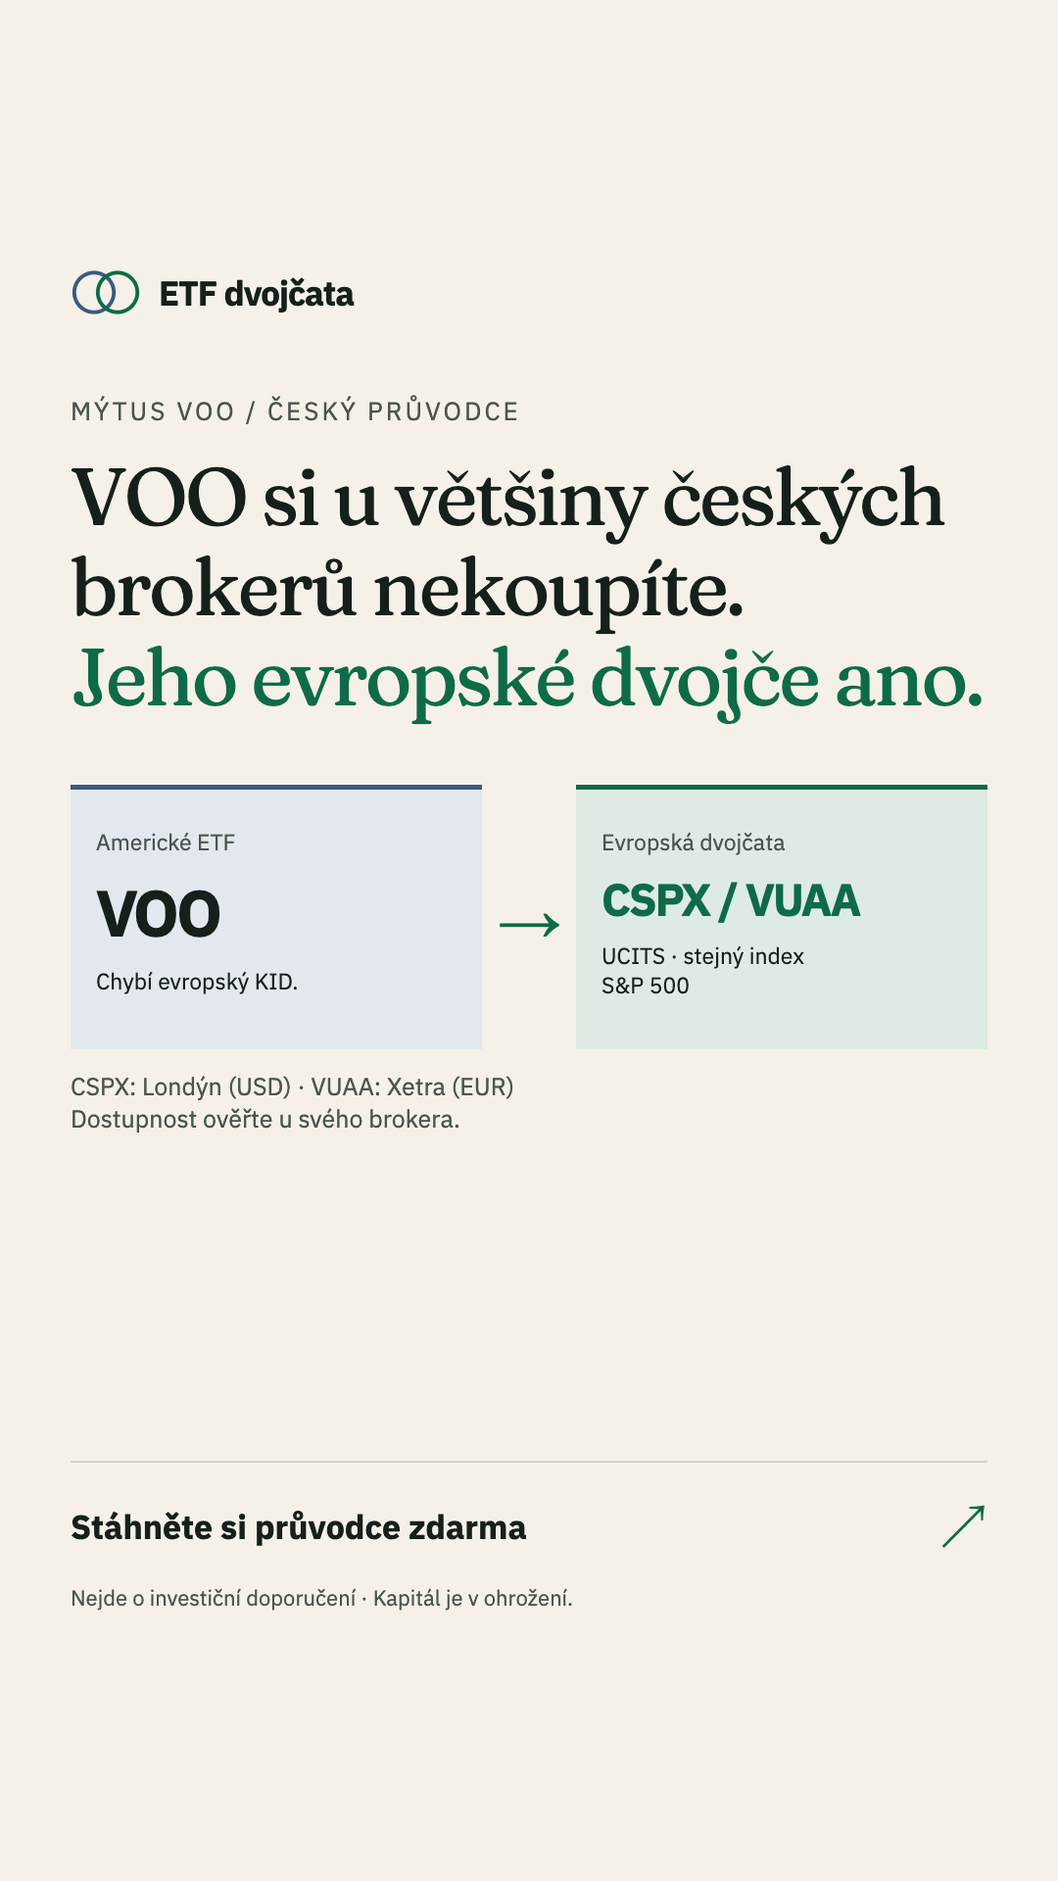
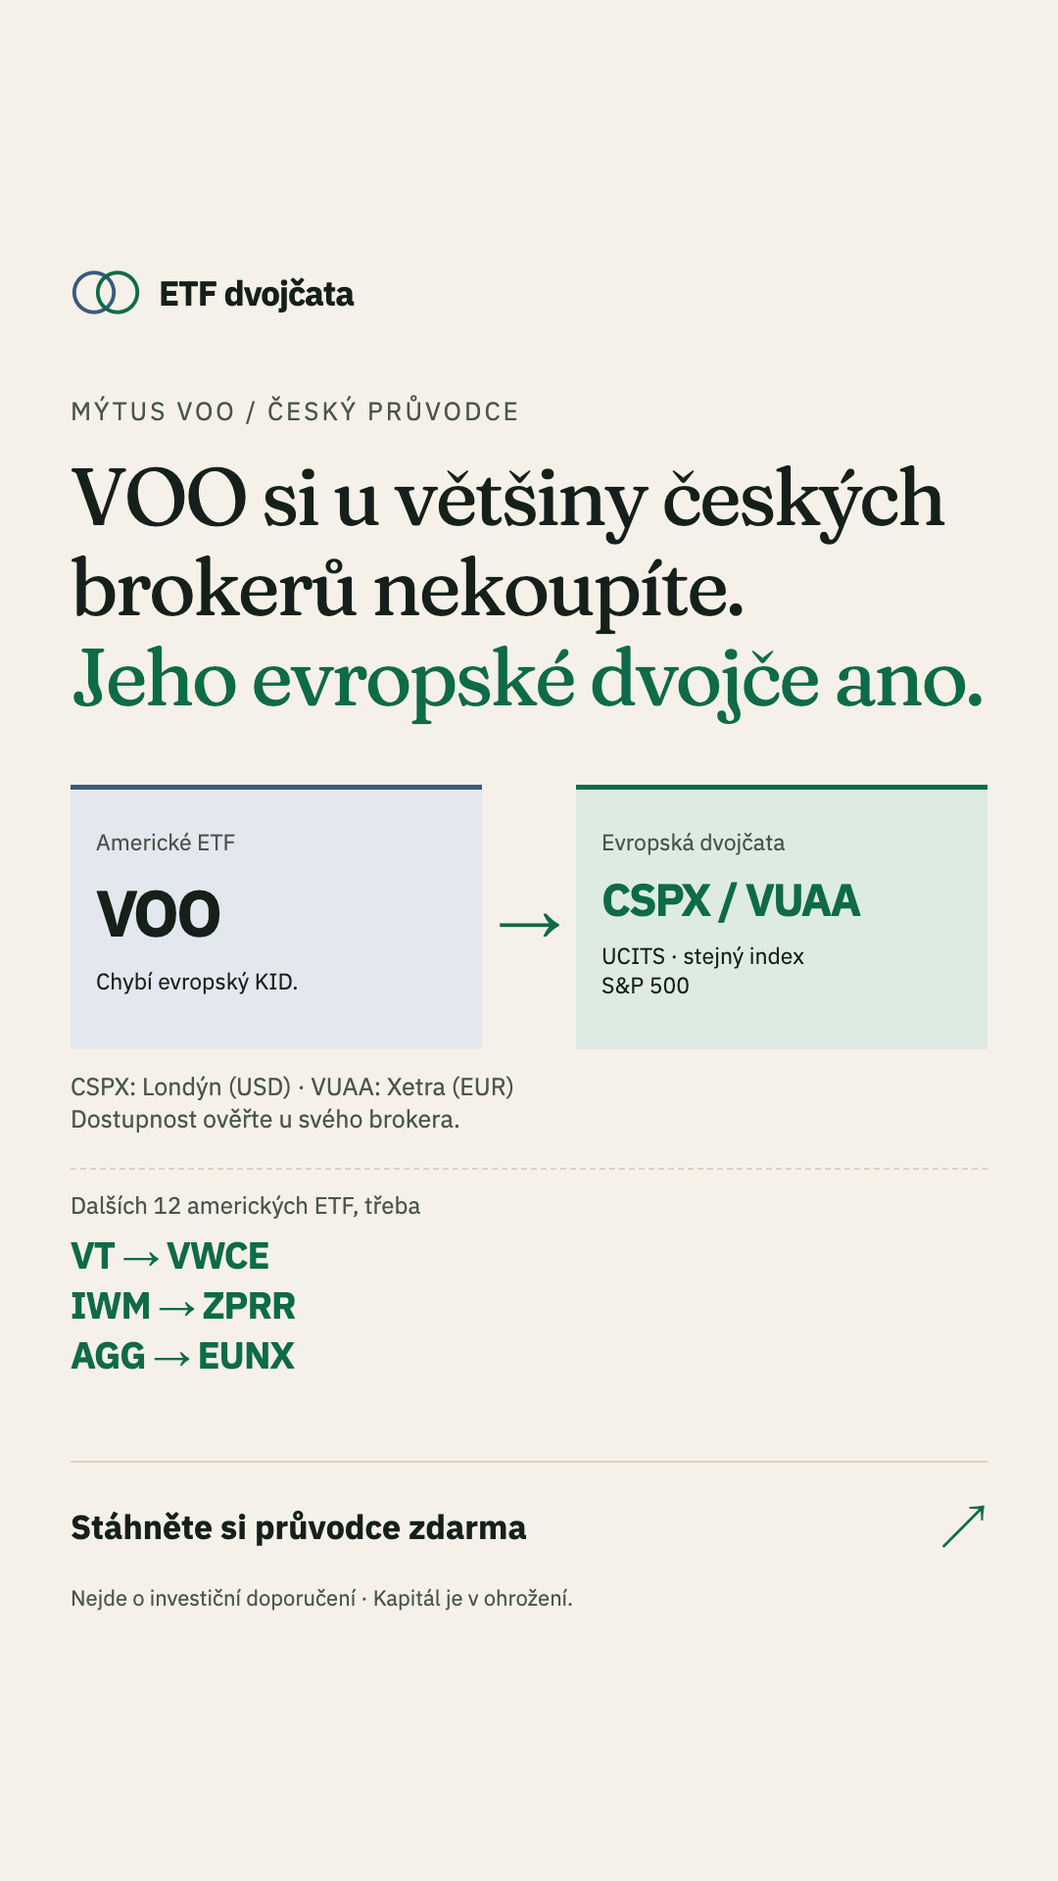
Show both ends of the fee range in ad B and fill the empty space in ad A

Changed region(s): [[0.1528, 0.625, 0.3056, 0.75], [0.0611, 0.625, 0.1528, 0.75], [0.3361, 0.625, 0.3972, 0.6562]]

diff --git a/ads/creative.css b/ads/creative.css
@@ -49,3 +49,4 @@
 }
 :root{--paper:#F5F1E8;--ink:#16201B;--muted:var(--ink-muted,#4A554F);--rules:var(--rule,#D9D2C3);--us:#3A5A80;--eu:#0E6B47;--accent:var(--signal-ink,#B83A16);--highlight:var(--marker,#F2E36B)}
 *{box-sizing:border-box}html,body{margin:0;width:1080px;background:var(--paper);color:var(--ink)}body{font-family:var(--font-body,"IBM Plex Sans",Arial,sans-serif)}.canvas{width:1080px;height:1350px;padding:68px 72px;overflow:hidden;position:relative}.brand{display:flex;align-items:center;gap:17px;font-size:35px;font-weight:700;letter-spacing:-1px}.brand svg{width:73px;height:47px}.eyebrow{margin:60px 0 25px;font-size:26px;letter-spacing:3px;text-transform:uppercase;color:var(--muted)}h1{font-family:var(--font-display,"Fraunces Variable",Georgia,serif);font-weight:400;font-size:73px;line-height:1.08;letter-spacing:-2.8px;margin:0}.em{color:var(--eu)}.twins{display:grid;grid-template-columns:1fr 64px 1fr;align-items:center;gap:16px;margin-top:48px}.card{height:238px;padding:30px 26px;border-top:5px solid var(--us);background:var(--us-tint,#E3E8EE)}.card.eu{border-color:var(--eu);background:var(--eu-tint,#DDEBE3)}.card small{display:block;font-size:23px;color:var(--muted);margin-bottom:14px}.ticker{font-size:66px;letter-spacing:-3px;font-weight:700}.eu .ticker{font-size:46px;letter-spacing:-2px;white-space:nowrap;color:var(--eu)}.card p{font-size:23px;line-height:1.3;margin:13px 0 0}.arrow{font-size:65px;color:var(--eu)}.caption{font-size:25px;line-height:1.3;color:var(--muted);margin:22px 0 0}.bottom{position:absolute;left:72px;right:72px;bottom:65px}.cta{border-top:2px solid var(--rules);padding-top:29px;display:flex;justify-content:space-between;align-items:center;font-size:34px;font-weight:700}.cta span:last-child{color:var(--eu);font-size:48px}.disclaimer{font-size:22px;color:var(--muted);margin:22px 0 0}.story .canvas{height:1920px;padding-top:275px;padding-bottom:275px}.story .eyebrow{margin-top:80px}.story h1{font-size:82px;line-height:1.12}.story .twins{margin-top:65px}.story .card{height:270px;padding-top:38px}.story .bottom{bottom:275px}.b h1{font-size:70px}.b .number{display:block;font-family:var(--font-body,"IBM Plex Sans",Arial,sans-serif);font-weight:700;font-size:106px;letter-spacing:-5px;white-space:nowrap;margin:18px 0 12px;color:var(--accent)}.b .years{display:block;font-size:62px;letter-spacing:-2px}.fx-strip{margin-top:44px;display:grid;grid-template-columns:1fr 100px 1fr;gap:18px;align-items:center;background:var(--highlight);padding:28px 32px}.fx-strip div{font-size:32px;font-weight:700}.fx-strip small{font-size:23px;font-weight:400;display:block;margin-bottom:8px}.fx-strip .middle{font-size:42px;text-align:center;font-weight:400}.fx-note{font-size:28px;line-height:1.35;margin:24px 0 0;color:var(--muted)}.b.story h1{font-size:80px}.b.story .number{font-size:110px;margin-top:30px}.b.story .fx-strip{margin-top:55px}.b.story .fx-note{font-size:31px}
+.more{margin-top:46px;border-top:2px dashed var(--rules);padding-top:26px}.more small{display:block;font-size:24px;color:var(--muted);margin-bottom:10px}.more p{margin:6px 0 0;font-size:40px;font-weight:700;letter-spacing:-1px;color:var(--eu)}.story .more{margin-top:34px;padding-top:20px}.story .more p{font-size:38px;margin-top:2px}

diff --git a/ads/a-story.html b/ads/a-story.html
@@ -1,2 +1,2 @@
 <!doctype html>
-<html lang="cs"><head><meta charset="utf-8"><meta name="viewport" content="width=1080"><title>ETF dvojčata — A story</title><link rel="stylesheet" href="creative.css"></head><body class="a story"><main class="canvas"><div class="brand"><svg viewBox="0 0 76 48" xmlns="http://www.w3.org/2000/svg" aria-hidden="true"><circle cx="25" cy="24" r="21" fill="none" stroke="#3A5A80" stroke-width="4"/><circle cx="50" cy="24" r="21" fill="none" stroke="#0E6B47" stroke-width="4"/></svg>ETF dvojčata</div><p class="eyebrow">Mýtus VOO / český průvodce</p><h1>VOO si u&nbsp;většiny českých brokerů nekoupíte.<br><span class="em">Jeho evropské dvojče ano.</span></h1><div class="twins"><div class="card"><small>Americké ETF</small><div class="ticker">VOO</div><p>Chybí evropský KID.</p></div><div class="arrow">→</div><div class="card eu"><small>Evropská dvojčata</small><div class="ticker">CSPX / VUAA</div><p>UCITS · stejný index<br>S&amp;P 500</p></div></div><p class="caption">CSPX: Londýn (USD) · VUAA: Xetra (EUR)<br>Dostupnost ověřte u&nbsp;svého brokera.</p><footer class="bottom"><div class="cta"><span>Stáhněte si průvodce zdarma</span><span>↗</span></div><p class="disclaimer">Nejde o investiční doporučení · Kapitál je v ohrožení.</p></footer></main></body></html>
+<html lang="cs"><head><meta charset="utf-8"><meta name="viewport" content="width=1080"><title>ETF dvojčata — A story</title><link rel="stylesheet" href="creative.css"></head><body class="a story"><main class="canvas"><div class="brand"><svg viewBox="0 0 76 48" xmlns="http://www.w3.org/2000/svg" aria-hidden="true"><circle cx="25" cy="24" r="21" fill="none" stroke="#3A5A80" stroke-width="4"/><circle cx="50" cy="24" r="21" fill="none" stroke="#0E6B47" stroke-width="4"/></svg>ETF dvojčata</div><p class="eyebrow">Mýtus VOO / český průvodce</p><h1>VOO si u&nbsp;většiny českých brokerů nekoupíte.<br><span class="em">Jeho evropské dvojče ano.</span></h1><div class="twins"><div class="card"><small>Americké ETF</small><div class="ticker">VOO</div><p>Chybí evropský KID.</p></div><div class="arrow">→</div><div class="card eu"><small>Evropská dvojčata</small><div class="ticker">CSPX / VUAA</div><p>UCITS · stejný index<br>S&amp;P 500</p></div></div><p class="caption">CSPX: Londýn (USD) · VUAA: Xetra (EUR)<br>Dostupnost ověřte u&nbsp;svého brokera.</p><div class="more"><small>Dalších 12 amerických ETF, třeba</small><p>VT → VWCE</p><p>IWM → ZPRR</p><p>AGG → EUNX</p></div><footer class="bottom"><div class="cta"><span>Stáhněte si průvodce zdarma</span><span>↗</span></div><p class="disclaimer">Nejde o investiční doporučení · Kapitál je v ohrožení.</p></footer></main></body></html>

diff --git a/ads/a-feed.html b/ads/a-feed.html
@@ -1,2 +1,2 @@
 <!doctype html>
-<html lang="cs"><head><meta charset="utf-8"><meta name="viewport" content="width=1080"><title>ETF dvojčata — A feed</title><link rel="stylesheet" href="creative.css"></head><body class="a feed"><main class="canvas"><div class="brand"><svg viewBox="0 0 76 48" xmlns="http://www.w3.org/2000/svg" aria-hidden="true"><circle cx="25" cy="24" r="21" fill="none" stroke="#3A5A80" stroke-width="4"/><circle cx="50" cy="24" r="21" fill="none" stroke="#0E6B47" stroke-width="4"/></svg>ETF dvojčata</div><p class="eyebrow">Mýtus VOO / český průvodce</p><h1>VOO si u&nbsp;většiny českých brokerů nekoupíte.<br><span class="em">Jeho evropské dvojče ano.</span></h1><div class="twins"><div class="card"><small>Americké ETF</small><div class="ticker">VOO</div><p>Chybí evropský KID.</p></div><div class="arrow">→</div><div class="card eu"><small>Evropská dvojčata</small><div class="ticker">CSPX / VUAA</div><p>UCITS · stejný index<br>S&amp;P 500</p></div></div><p class="caption">CSPX: Londýn (USD) · VUAA: Xetra (EUR)<br>Dostupnost ověřte u&nbsp;svého brokera.</p><footer class="bottom"><div class="cta"><span>Stáhněte si průvodce zdarma</span><span>↗</span></div><p class="disclaimer">Nejde o investiční doporučení · Kapitál je v ohrožení.</p></footer></main></body></html>
+<html lang="cs"><head><meta charset="utf-8"><meta name="viewport" content="width=1080"><title>ETF dvojčata — A feed</title><link rel="stylesheet" href="creative.css"></head><body class="a feed"><main class="canvas"><div class="brand"><svg viewBox="0 0 76 48" xmlns="http://www.w3.org/2000/svg" aria-hidden="true"><circle cx="25" cy="24" r="21" fill="none" stroke="#3A5A80" stroke-width="4"/><circle cx="50" cy="24" r="21" fill="none" stroke="#0E6B47" stroke-width="4"/></svg>ETF dvojčata</div><p class="eyebrow">Mýtus VOO / český průvodce</p><h1>VOO si u&nbsp;většiny českých brokerů nekoupíte.<br><span class="em">Jeho evropské dvojče ano.</span></h1><div class="twins"><div class="card"><small>Americké ETF</small><div class="ticker">VOO</div><p>Chybí evropský KID.</p></div><div class="arrow">→</div><div class="card eu"><small>Evropská dvojčata</small><div class="ticker">CSPX / VUAA</div><p>UCITS · stejný index<br>S&amp;P 500</p></div></div><p class="caption">CSPX: Londýn (USD) · VUAA: Xetra (EUR)<br>Dostupnost ověřte u&nbsp;svého brokera.</p><div class="more"><small>Dalších 12 amerických ETF, třeba</small><p>VT → VWCE</p><p>IWM → ZPRR</p><p>AGG → EUNX</p></div><footer class="bottom"><div class="cta"><span>Stáhněte si průvodce zdarma</span><span>↗</span></div><p class="disclaimer">Nejde o investiční doporučení · Kapitál je v ohrožení.</p></footer></main></body></html>

diff --git a/ads/b-story.html b/ads/b-story.html
@@ -1,2 +1,2 @@
 <!doctype html>
-<html lang="cs"><head><meta charset="utf-8"><meta name="viewport" content="width=1080"><title>ETF dvojčata — B story</title><link rel="stylesheet" href="creative.css"></head><body class="b story"><main class="canvas"><div class="brand"><svg viewBox="0 0 76 48" xmlns="http://www.w3.org/2000/svg" aria-hidden="true"><circle cx="25" cy="24" r="21" fill="none" stroke="#3A5A80" stroke-width="4"/><circle cx="50" cy="24" r="21" fill="none" stroke="#0E6B47" stroke-width="4"/></svg>ETF dvojčata</div><p class="eyebrow">Skryté poplatky / směna měn</p><h1>Stejný fond na&nbsp;S&amp;P&nbsp;500,<br>jiný broker:<br>rozdíl až <span class="number">{{N}} Kč</span><span class="years">za&nbsp;20 let.</span></h1><div class="fx-strip"><div><small>Při nákupu za&nbsp;koruny</small>CZK</div><div class="middle">→</div><div><small>Směna má svou cenu</small>EUR / USD</div></div><p class="fx-note">Nulová provize neznamená nulové náklady. Porovnejte i&nbsp;poplatek za&nbsp;směnu.</p><p class="caption">Modelový rozdíl nákladů. Záleží na&nbsp;vkladu,<br>brokerech a&nbsp;předpokladech kalkulačky.</p><footer class="bottom"><div class="cta"><span>Porovnejte poplatky v korunách</span><span>↗</span></div><p class="disclaimer">Nejde o investiční doporučení · Kapitál je v ohrožení.</p></footer></main></body></html>
+<html lang="cs"><head><meta charset="utf-8"><meta name="viewport" content="width=1080"><title>ETF dvojčata — B story</title><link rel="stylesheet" href="creative.css"></head><body class="b story"><main class="canvas"><div class="brand"><svg viewBox="0 0 76 48" xmlns="http://www.w3.org/2000/svg" aria-hidden="true"><circle cx="25" cy="24" r="21" fill="none" stroke="#3A5A80" stroke-width="4"/><circle cx="50" cy="24" r="21" fill="none" stroke="#0E6B47" stroke-width="4"/></svg>ETF dvojčata</div><p class="eyebrow">Poplatky v korunách / S&amp;P 500</p><h1>Stejný fond na&nbsp;S&amp;P&nbsp;500,<br>jiný broker:<br>rozdíl až <span class="number">{{N}} Kč</span><span class="years">za&nbsp;20 let.</span></h1><div class="fx-strip"><div><small>Nejlevnější cesta</small>{{LOW}} Kč</div><div class="middle">vs</div><div><small>Nejdražší cesta</small>{{HIGH}} Kč</div></div><p class="fx-note">Provize, směna měn i&nbsp;úschova. Spočítali jsme je u&nbsp;4 brokerů v&nbsp;korunách.</p><p class="caption">Model: 3&nbsp;000 Kč měsíčně, 20 let, 7&nbsp;% ročně.<br>Skutečné náklady závisí na&nbsp;vkladu a&nbsp;brokerovi.</p><footer class="bottom"><div class="cta"><span>Porovnejte poplatky v korunách</span><span>↗</span></div><p class="disclaimer">Nejde o investiční doporučení · Kapitál je v ohrožení.</p></footer></main></body></html>

diff --git a/ads/b-feed.html b/ads/b-feed.html
@@ -1,2 +1,2 @@
 <!doctype html>
-<html lang="cs"><head><meta charset="utf-8"><meta name="viewport" content="width=1080"><title>ETF dvojčata — B feed</title><link rel="stylesheet" href="creative.css"></head><body class="b feed"><main class="canvas"><div class="brand"><svg viewBox="0 0 76 48" xmlns="http://www.w3.org/2000/svg" aria-hidden="true"><circle cx="25" cy="24" r="21" fill="none" stroke="#3A5A80" stroke-width="4"/><circle cx="50" cy="24" r="21" fill="none" stroke="#0E6B47" stroke-width="4"/></svg>ETF dvojčata</div><p class="eyebrow">Skryté poplatky / směna měn</p><h1>Stejný fond na&nbsp;S&amp;P&nbsp;500,<br>jiný broker:<br>rozdíl až <span class="number">{{N}} Kč</span><span class="years">za&nbsp;20 let.</span></h1><div class="fx-strip"><div><small>Při nákupu za&nbsp;koruny</small>CZK</div><div class="middle">→</div><div><small>Směna má svou cenu</small>EUR / USD</div></div><p class="fx-note">Nulová provize neznamená nulové náklady. Porovnejte i&nbsp;poplatek za&nbsp;směnu.</p><p class="caption">Modelový rozdíl nákladů. Záleží na&nbsp;vkladu,<br>brokerech a&nbsp;předpokladech kalkulačky.</p><footer class="bottom"><div class="cta"><span>Porovnejte poplatky v korunách</span><span>↗</span></div><p class="disclaimer">Nejde o investiční doporučení · Kapitál je v ohrožení.</p></footer></main></body></html>
+<html lang="cs"><head><meta charset="utf-8"><meta name="viewport" content="width=1080"><title>ETF dvojčata — B feed</title><link rel="stylesheet" href="creative.css"></head><body class="b feed"><main class="canvas"><div class="brand"><svg viewBox="0 0 76 48" xmlns="http://www.w3.org/2000/svg" aria-hidden="true"><circle cx="25" cy="24" r="21" fill="none" stroke="#3A5A80" stroke-width="4"/><circle cx="50" cy="24" r="21" fill="none" stroke="#0E6B47" stroke-width="4"/></svg>ETF dvojčata</div><p class="eyebrow">Poplatky v korunách / S&amp;P 500</p><h1>Stejný fond na&nbsp;S&amp;P&nbsp;500,<br>jiný broker:<br>rozdíl až <span class="number">{{N}} Kč</span><span class="years">za&nbsp;20 let.</span></h1><div class="fx-strip"><div><small>Nejlevnější cesta</small>{{LOW}} Kč</div><div class="middle">vs</div><div><small>Nejdražší cesta</small>{{HIGH}} Kč</div></div><p class="fx-note">Provize, směna měn i&nbsp;úschova. Spočítali jsme je u&nbsp;4 brokerů v&nbsp;korunách.</p><p class="caption">Model: 3&nbsp;000 Kč měsíčně, 20 let, 7&nbsp;% ročně.<br>Skutečné náklady závisí na&nbsp;vkladu a&nbsp;brokerovi.</p><footer class="bottom"><div class="cta"><span>Porovnejte poplatky v korunách</span><span>↗</span></div><p class="disclaimer">Nejde o investiční doporučení · Kapitál je v ohrožení.</p></footer></main></body></html>

diff --git a/ads/README.md b/ads/README.md
@@ -6,15 +6,19 @@ Educational Czech ETF comparison, prepared 11 October 2026. Two promises, two ma
 
 `a-feed.html`, `a-story.html`, `b-feed.html`, `b-story.html` share `creative.css`. Feed is 1080 × 1350; story is 1080 × 1920. All story text fits between y=250 and y=1670. The background extends to every edge. Hooks are at least 70 px. The mark uses two overlapping circles. The creatives import the landing design tokens and load local Fraunces and IBM Plex Sans font files, including Czech glyphs. Georgia and system sans are fallbacks. The renderer resolves local font and token URLs for its temporary HTML.
 
-Run from the repository root:
+Run from the repository root with the three numbers the landing calculator shows for its default
+scenario (3 000 Kč a month, 20 years, 7 % a year, CSPX/SXR8 bought monthly):
 
 ```sh
-ads/build.sh 41300
+ads/build.sh 47700 15700 63400   # difference, cheapest route, most expensive route
 ```
 
-This example supplies a number; it is **not a verified calculator result**. The script renders all four files into `ads/out/`, formats whole crowns with non-breaking thousands separators (`41 300`), uses isolated temporary Chrome profiles, and removes its temporary files. Chrome must be installed at `/Applications/Google Chrome.app/Contents/MacOS/Google Chrome`; Python 3 is required. No package installation is needed. Template `{{N}}` placeholders remain untouched.
-
-The layout check used `ads/build.sh 0`. Only A's production PNGs remain in `out/`; B's dummy PNGs were removed after visual inspection. B is pending the landing calculator's confirmed value. Before rebuilding B, record the calculator settings (monthly contribution, years, selected brokers, FX rates, returns, commission and liquidation assumptions). Reproduce that same scenario on the first screen or directly reachable calculator. The value must describe a modeled cost difference, not an investment return or guaranteed saving. For a value wider than the available number line, adjust type size while keeping hook text at least 48 px and inspect both outputs again.
+These are the calculator's own outputs (`src/calc.ts`, checked by `src/calc.test.ts`): Trading 212
+15 700 Kč, Fio e-Broker on Xetra 63 400 Kč, difference 47 700 Kč. Most of the gap is Fio's €3.95
+commission per monthly purchase, not the currency conversion, so creative B talks about fees in
+general and shows both ends of the range instead of blaming FX. If fees or rates change, rerun the
+calculator tests first, then rebuild with the new numbers. The script renders all four files into
+`ads/out/` with isolated temporary Chrome profiles and cleans up after itself.
 
 ## A — Mýtus VOO
 
@@ -35,16 +39,16 @@ Final URL: `https://{DOMAIN}/?utm_source=meta&utm_medium=paid_social&utm_campaig
 
 | Field | Copy |
 |---|---|
-| Primary text | “Stejný fond na S&P 500, jiný broker: rozdíl až {{N}} Kč za 20 let. Porovnejte poplatky v korunách.” |
-| Headline | “Kolik stojí směna měn u brokera?” |
+| Primary text | “Stejný fond na S&P 500, jiný broker: rozdíl až 47 700 Kč za 20 let. Spočítejte si poplatky v korunách.” |
+| Headline | “Kolik vás stojí broker za 20 let?” |
 | Description | “Modelový výpočet a český průvodce ETF.” |
 | CTA button | “Zjistit více” |
-| Alternative primary 1 | “Nulová provize není nulový náklad. Za směnu měn se platí. Porovnejte ETF brokery v korunách.” |
-| Alternative primary 2 | “Rozdíl až {{N}} Kč za 20 let? Záleží i na brokerovi. Ověřte předpoklady v kalkulačce poplatků.” |
+| Alternative primary 1 | “Provize, směna měn, úschova. Přepočítali jsme poplatky 4 brokerů na koruny. Zdarma a bez registrace.” |
+| Alternative primary 2 | “15 700 Kč, nebo 63 400 Kč? Stejný fond, jiný broker. Zadejte svou částku do kalkulačky.” |
 
 Final URL: `https://{DOMAIN}/?utm_source=meta&utm_medium=paid_social&utm_campaign=etf_dvojcata_launch&utm_content=fx`
 
-**Promise → first screen:** `utm_content=fx` must repeat the same `{{N}}` amount, identify it as a modeled fee difference, show the 20-year scenario and offer the editable calculator plus the guide. Use the same fund and assumptions across brokers. “Až” must refer to an identified comparison among the listed brokers, not an unlimited claim. The ad number, headline and calculator must be checked together before launch. Do not publish either `{{N}}` or the layout-check value 0.
+**Promise → first screen:** `utm_content=fx` repeats the same 47 700 Kč amount, identify it as a modeled fee difference, show the 20-year scenario and offer the editable calculator plus the guide. Use the same fund and assumptions across brokers. “Až” must refer to an identified comparison among the listed brokers, not an unlimited claim. The ad number, headline and calculator must be checked together before launch. 
 
 All primary texts and alternatives are below 125 characters at template length; both headlines are below 40 characters. Recheck B's length after number substitution. Keep the full primary hook before “Zobrazit více”; actual truncation depends on placement.
 
@@ -79,6 +83,6 @@ Do not stop early merely because the five-day smoke test cannot reach the 30-lea
 - [ ] No “safe”, “guaranteed” or “best” claims; no headline returns. Both creatives carry “Nejde o investiční doporučení” and a capital-at-risk warning. A disclaimer alone does not remove MAR duties if content actually recommends a trade.
 - [ ] Landing and PDF disclose author [redacted: name], data date, sources, methodology, risks, past-performance warning and absence of affiliate links. Keep facts separate from assumptions and avoid personalized recommendations in comments.
 - [ ] Verify current Meta financial-services requirements and country/category restrictions in Ads Manager, including any authorization request. The research's education exemption is not a blanket approval of this campaign.
-- [ ] Replace `{DOMAIN}` with the final HTTPS hostname, substitute B's confirmed `{{N}}`, verify message match on mobile, check download and consent behavior, and review every placement crop.
+- [ ] Replace `{DOMAIN}` with the final HTTPS hostname, verify message match on mobile, check download and consent behavior, and review every placement crop.
 
 Policy references: [Meta financial services](https://transparency.meta.com/en-gb/policies/ad-standards/restricted-goods-services/financial-services/), [Meta category help](https://www.facebook.com/business/help/298000447747885), [ČNB financial influencer warning](https://www.cnb.cz/cs/dohled-financni-trh/ochrana-spotrebitele/upozorneni/Upozorneni-Ceske-narodni-banky-pro-influencery-v-oblasti-financi/). Checked against repository research dated 11 October 2026. ČNB's page was re-opened during preparation; Meta's policy re-fetch returned HTTP 429, so the live wording and account requirements remain to be verified before launch.
